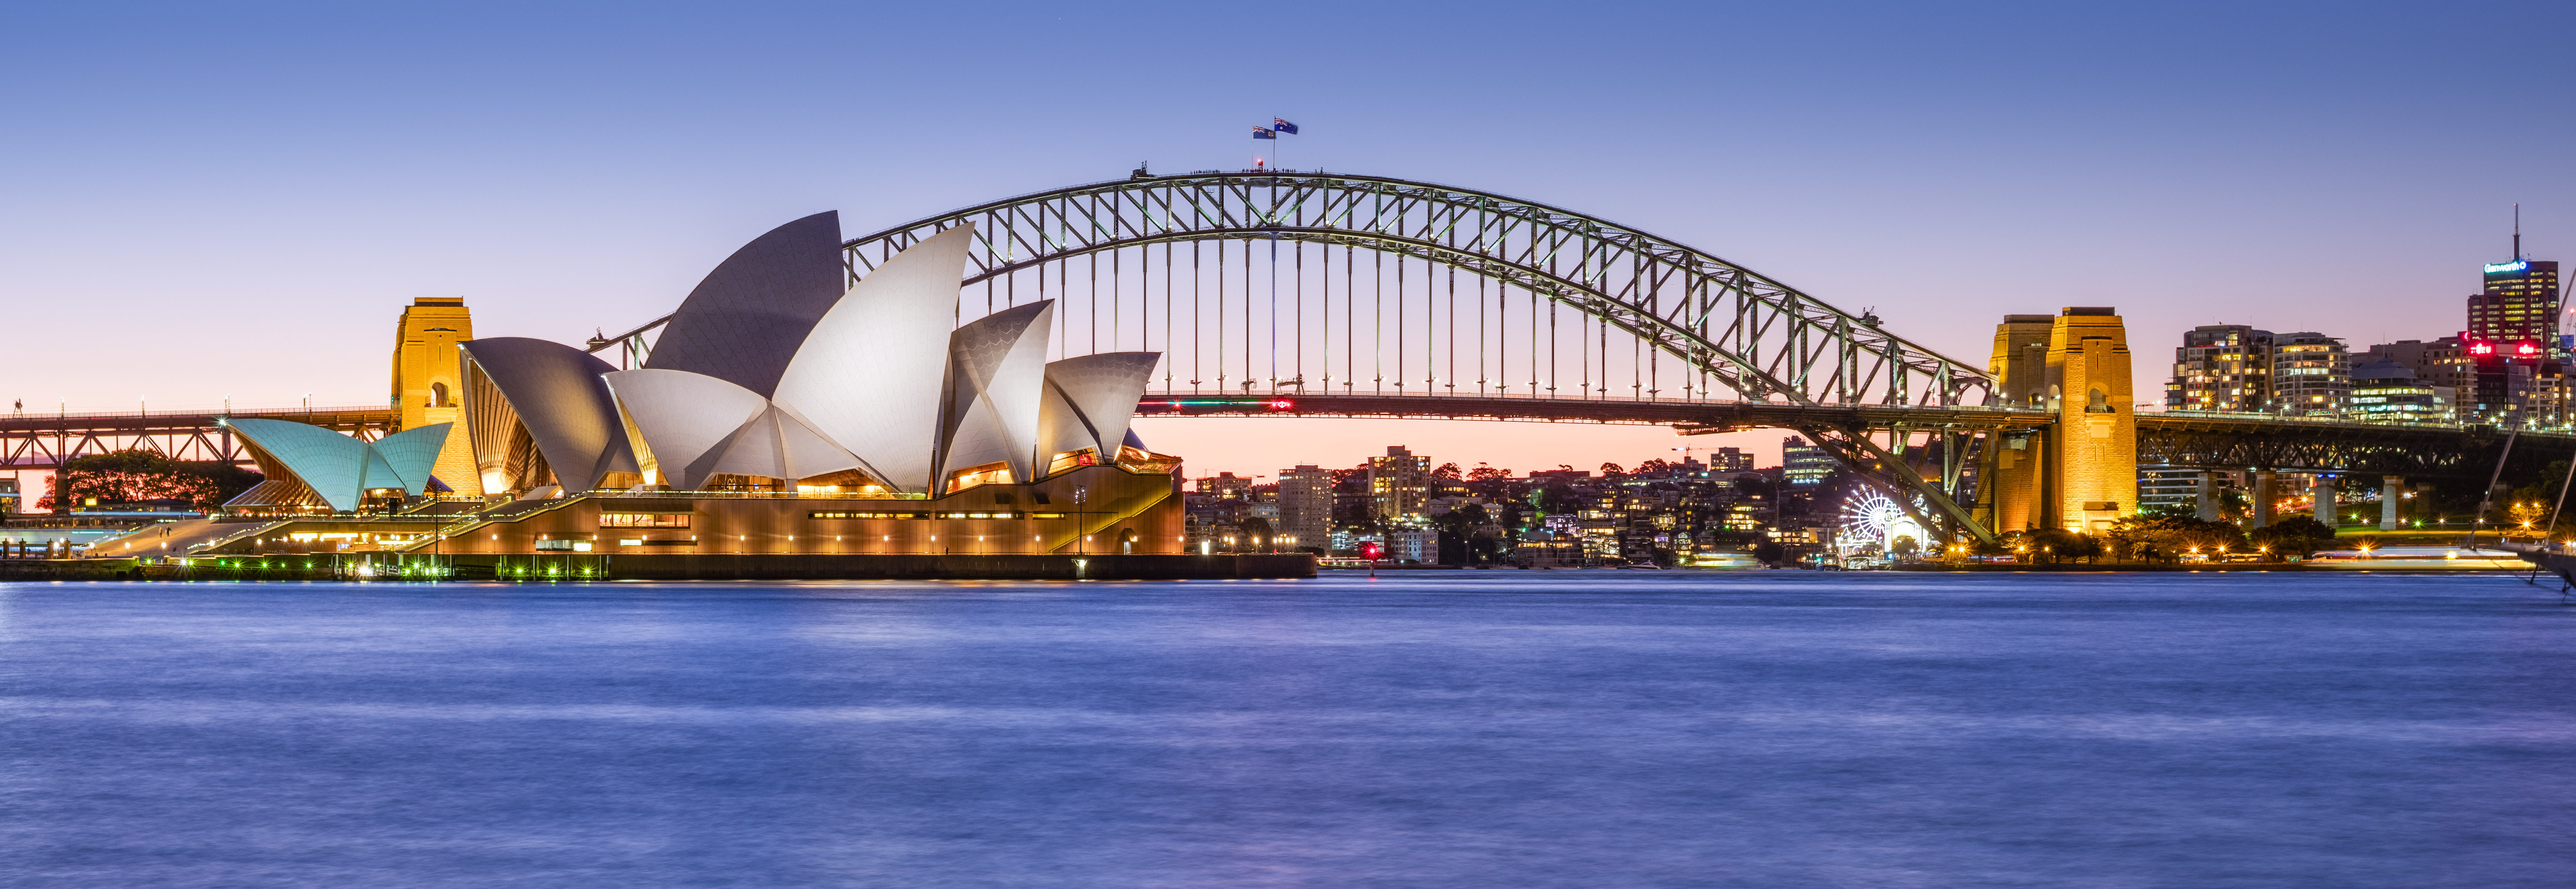
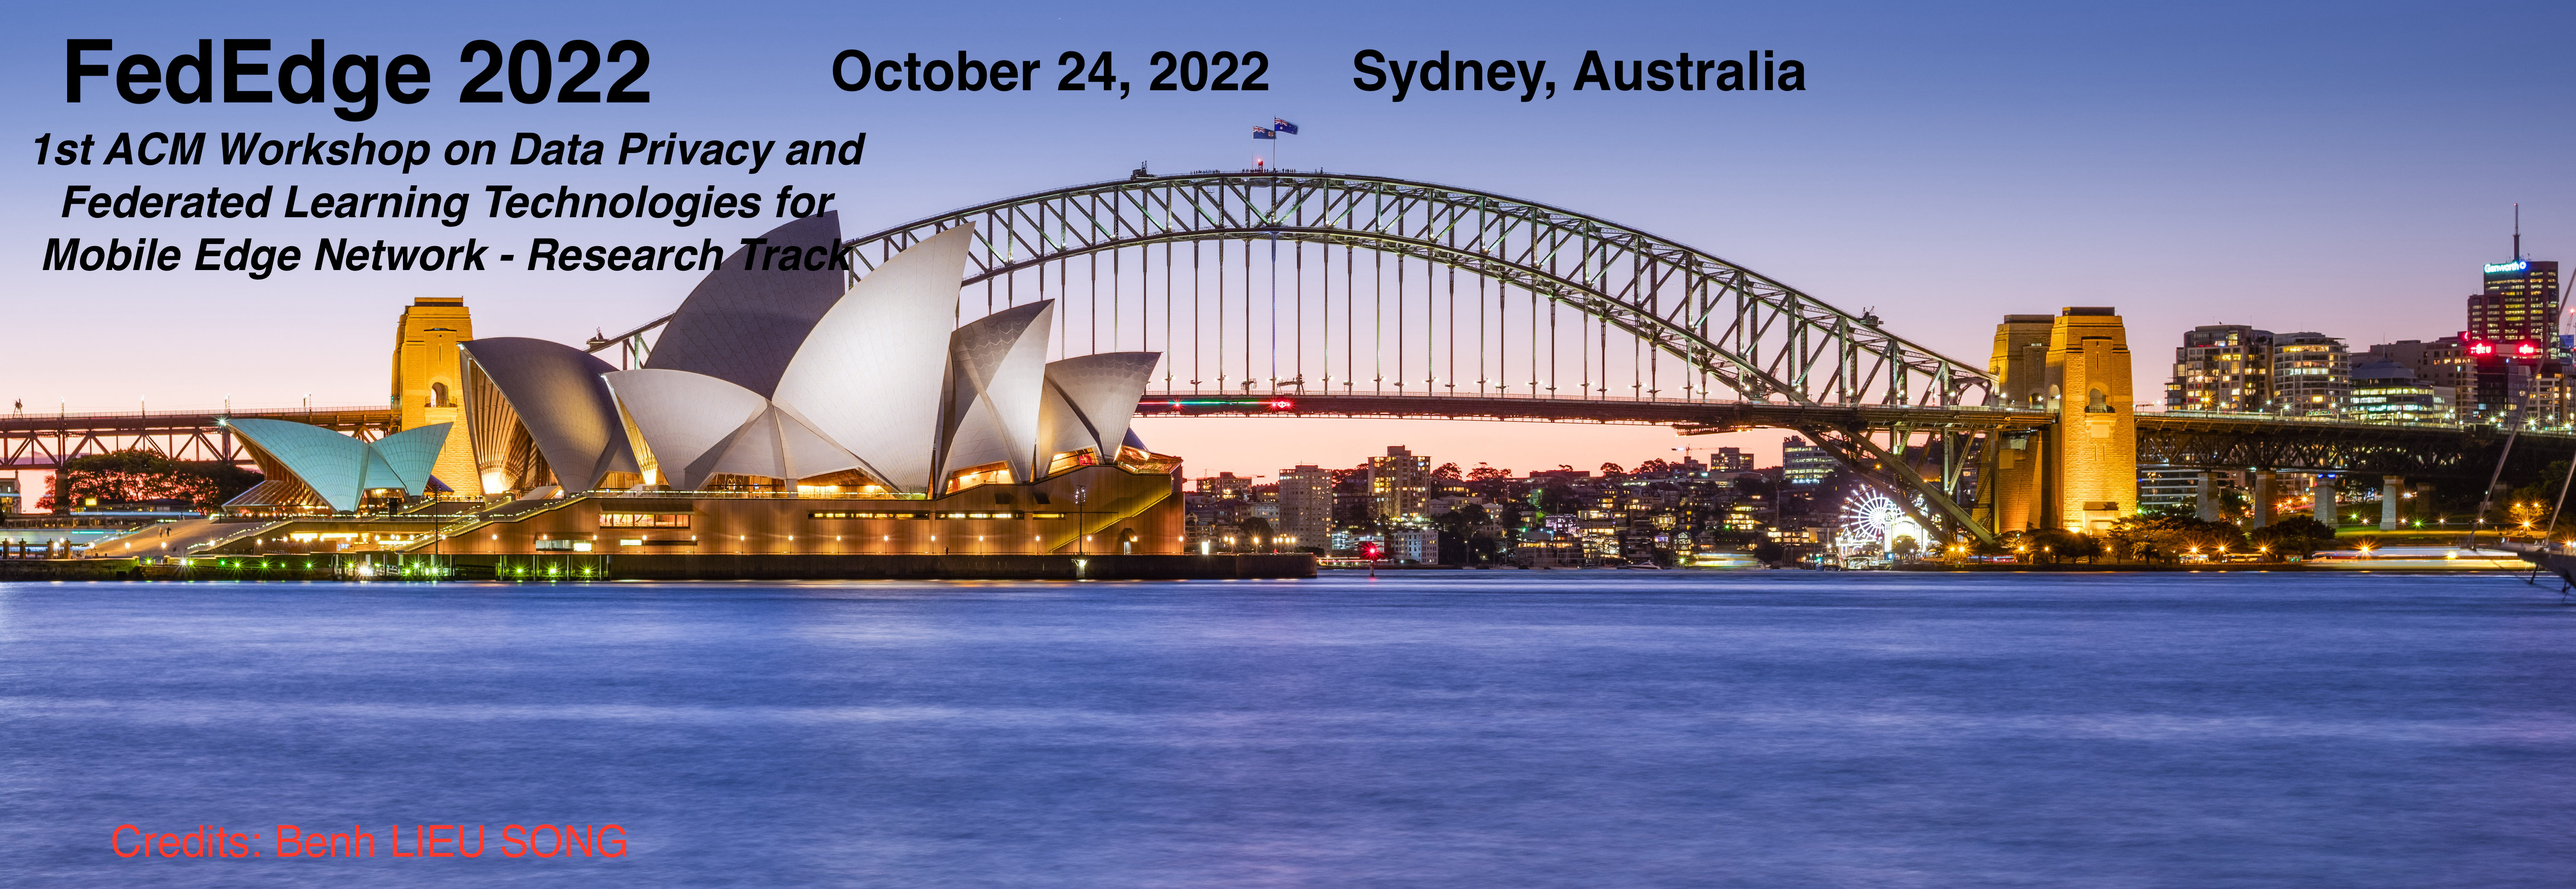
Modify photo and add TPC

diff --git a/committee.html b/committee.html
@@ -91,6 +91,11 @@
 
             <li>TBA</li>
           </ul>
+          <h3>Technical Program Committee</h3>
+          <ul>
+            <li><a href="http://niclane.org/" target="_blank">Nicholas Lane</a> (University of Cambridge, UK)</li>
+            <li>TBA</li>
+          </ul>
         
           <h3>Web Chair</h3>
           <ul>
